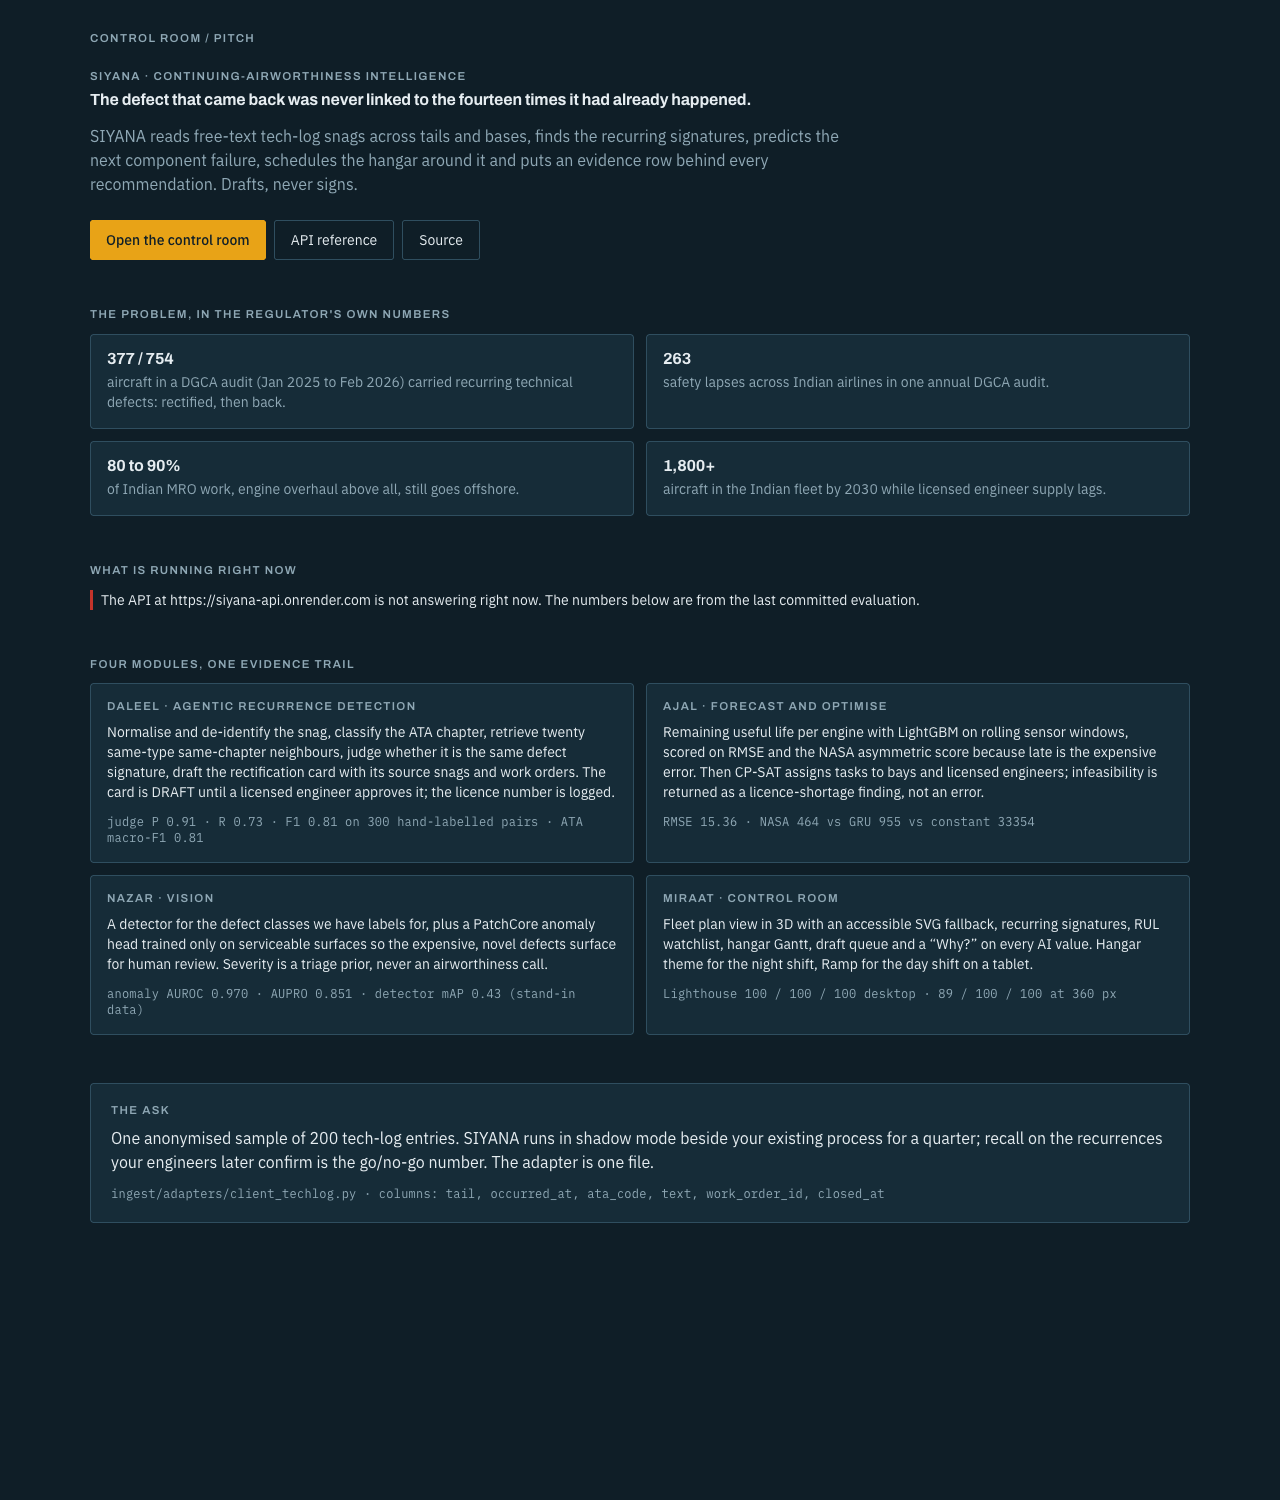
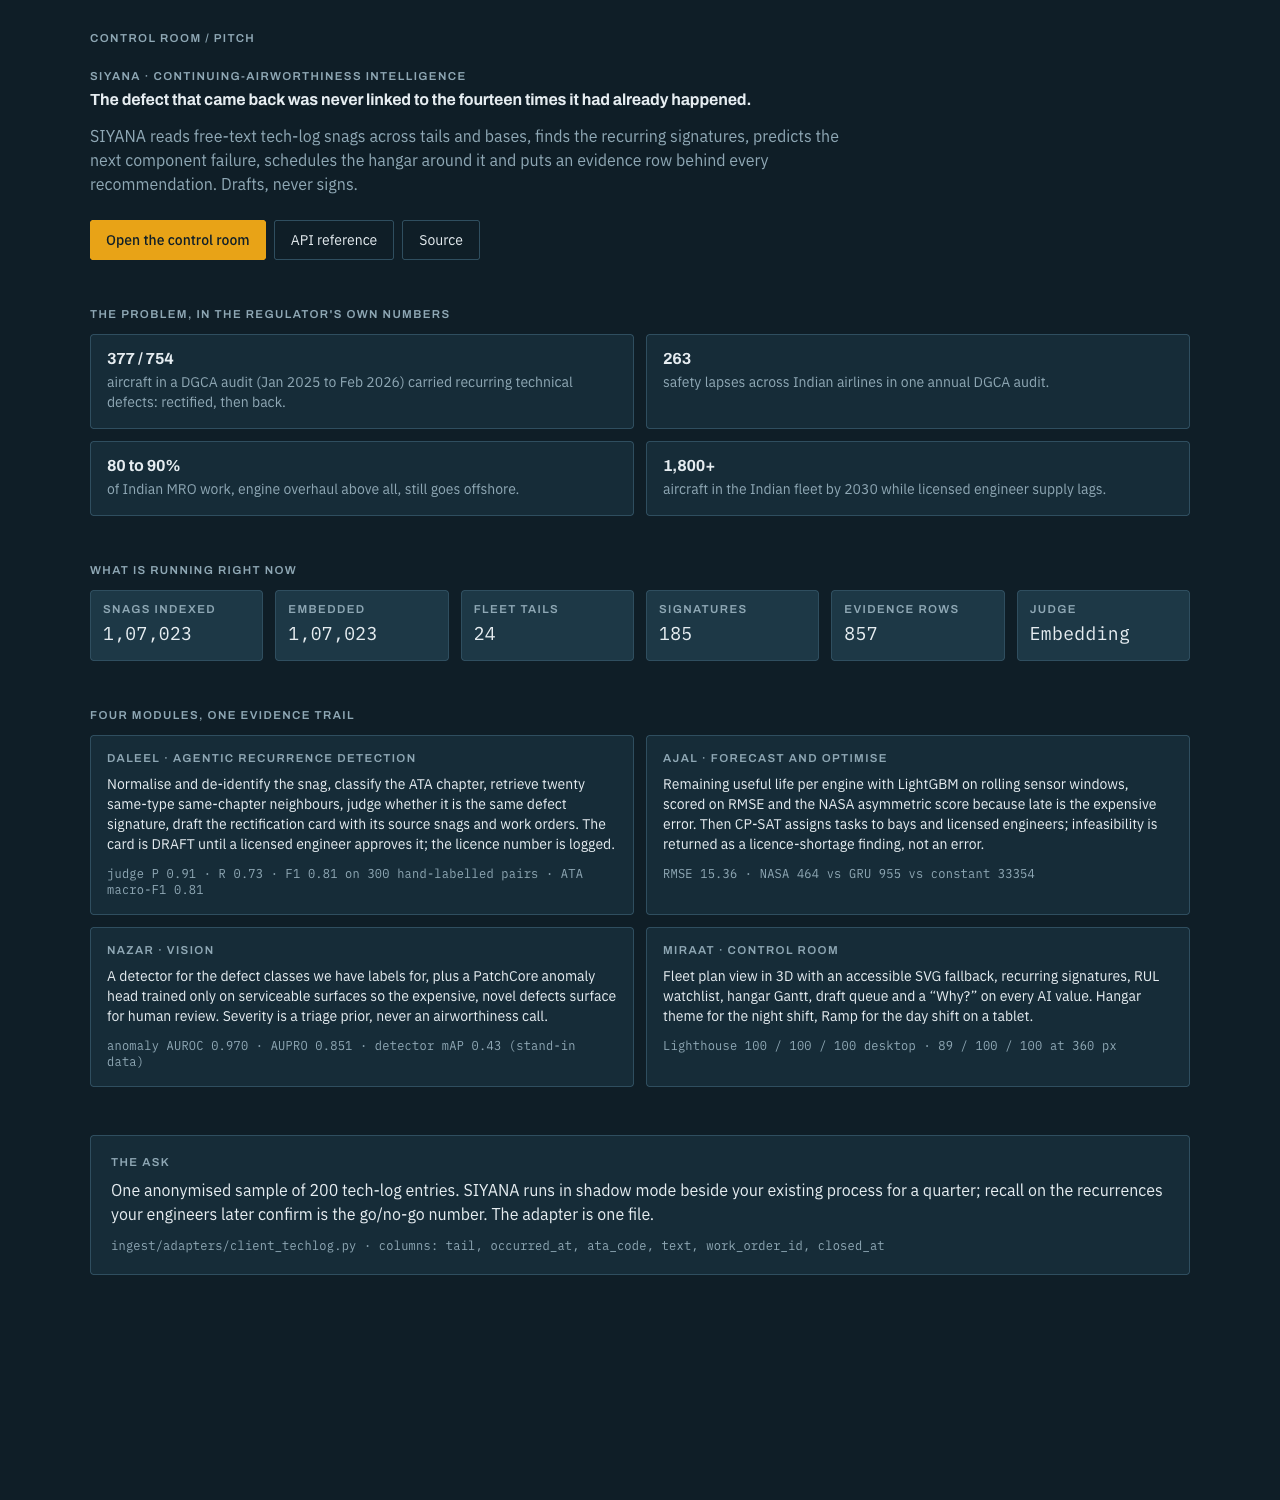
fix(web): render the shell inline instead of streaming it behind Suspense (removes the 0.9 CLS on Vercel)

diff --git a/web/app/page.tsx b/web/app/page.tsx
@@ -1,4 +1,3 @@
-import { Suspense } from "react";
 import { DraftQueueBay } from "@/components/bays/DraftQueueBay";
 import { GanttBay } from "@/components/bays/GanttBay";
 import { HeatmapBay } from "@/components/bays/HeatmapBay";
@@ -13,6 +12,8 @@ import { CommandBar } from "@/components/shell/CommandBar";
 import { DrillDrawer } from "@/components/shell/DrillDrawer";
 import { API_URL, api } from "@/lib/api";
 
+// Rendered per request: the fleet picture is live data. No Suspense boundaries around the shell,
+// because a streamed header arrives after <main> and shifts the whole page (measured CLS 0.9).
 export const dynamic = "force-dynamic";
 
 export default async function ControlRoom() {
@@ -31,9 +32,7 @@ export default async function ControlRoom() {
 
   return (
     <>
-      <Suspense fallback={null}>
-        <CommandBar summary={summary} />
-      </Suspense>
+      <CommandBar summary={summary} />
       <main id="main" className="mx-auto w-[min(100%-1.5rem,1400px)] pb-16 pt-4">
         {!summary && (
           <p role="alert" className="mb-4 rounded-[3px] border border-lamp px-3 py-2 text-sm text-ink">
@@ -41,9 +40,7 @@ export default async function ControlRoom() {
           </p>
         )}
         <div className="grid gap-4 lg:grid-cols-[13rem_1fr]">
-          <Suspense fallback={null}>
-            <AtaRail zones={zones} />
-          </Suspense>
+          <AtaRail zones={zones} />
 
           <div className="min-w-0 space-y-4">
             <section aria-labelledby="hero-title" className="bay">
@@ -78,9 +75,7 @@ export default async function ControlRoom() {
           </div>
         </div>
       </main>
-      <Suspense fallback={null}>
-        <DrillDrawer zones={zones} />
-      </Suspense>
+      <DrillDrawer zones={zones} />
       <CommandPalette zones={zones} tails={tails} />
       <DemoMode />
     </>
